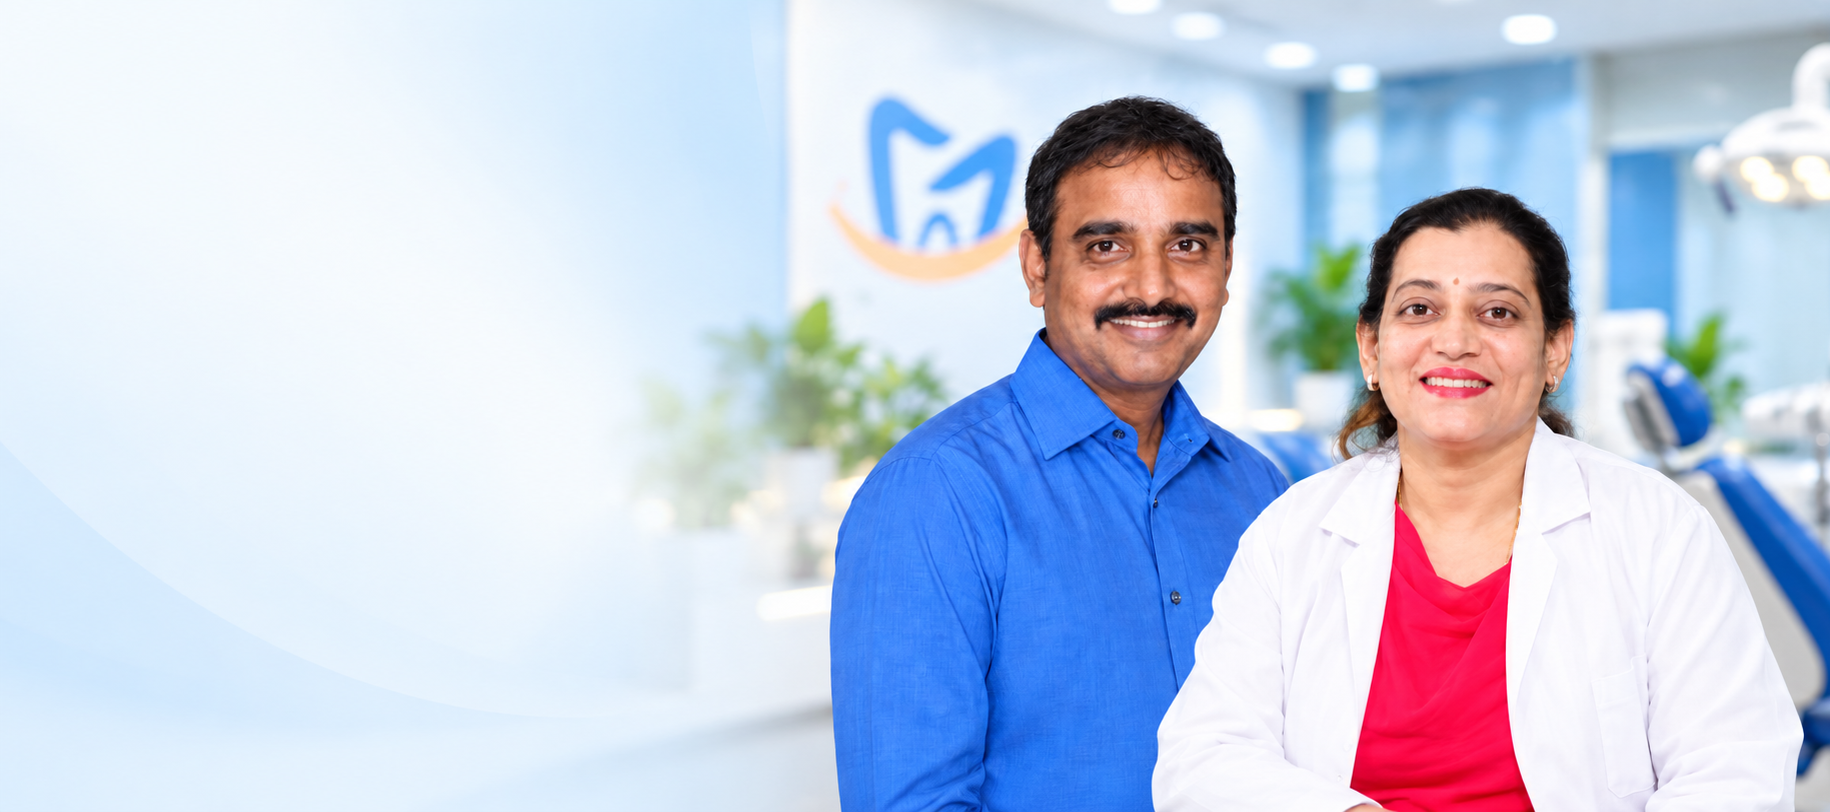
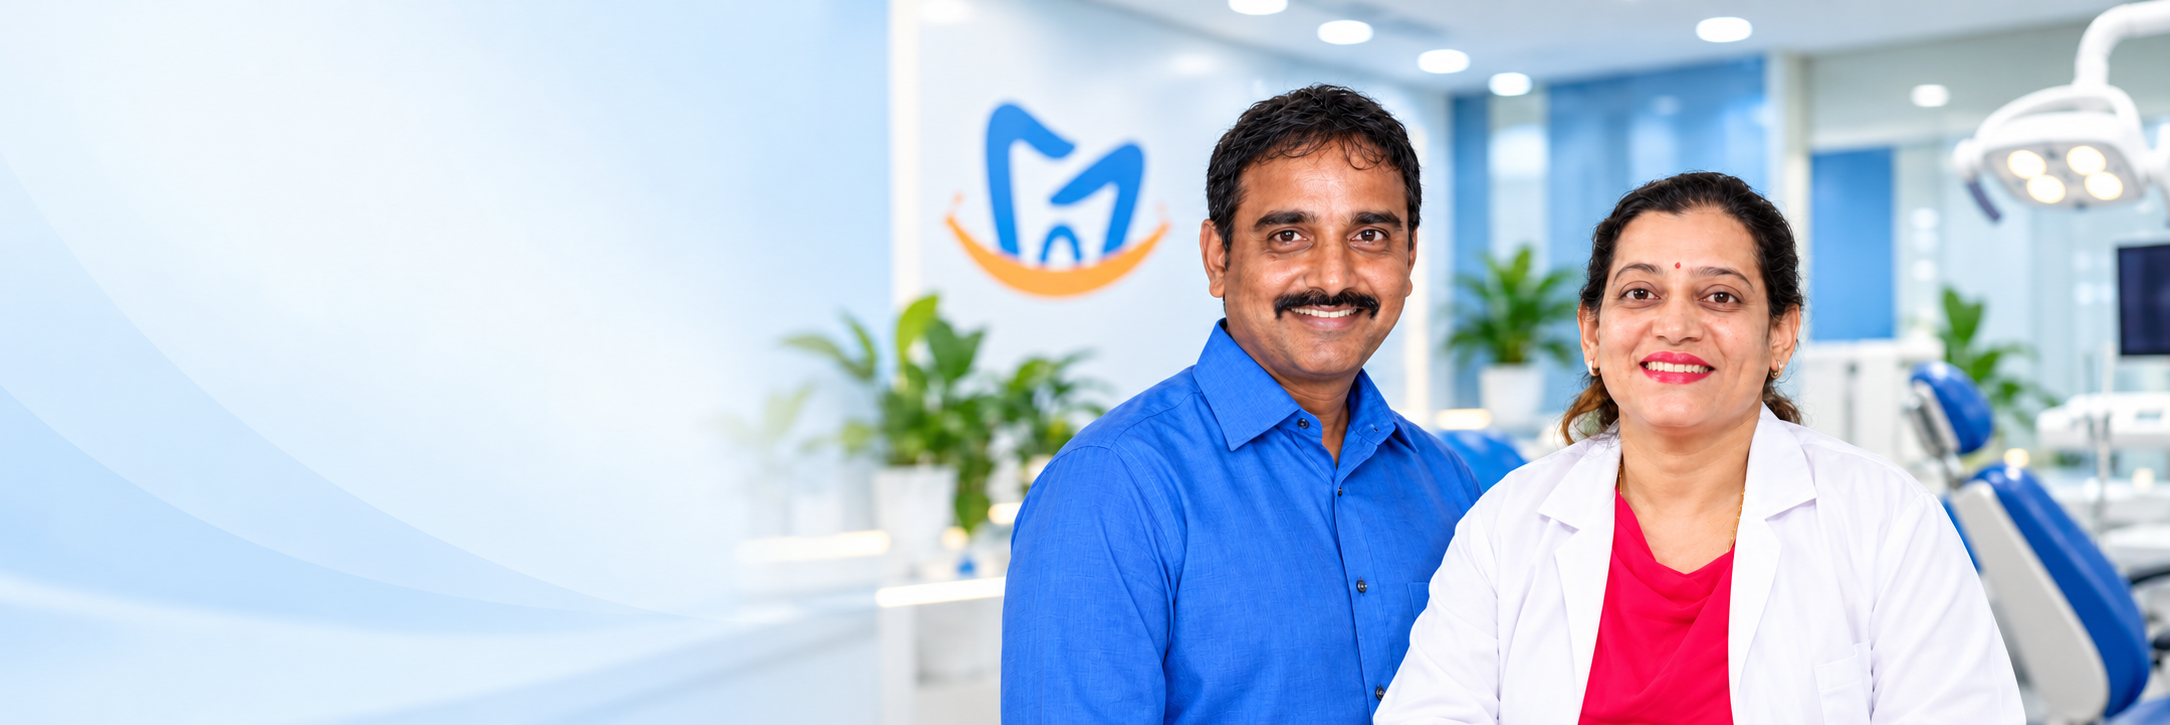
Update AboutusDocs.png hero image with cache-busting version

diff --git a/src/app/styles/custom.css b/src/app/styles/custom.css
@@ -2273,7 +2273,7 @@ body {
 .sh-about-hero__bg {
   position: absolute;
   inset: 0;
-  background: url("/img/AboutusDocs.png") right 30% / cover no-repeat;
+  background: url("/img/AboutusDocs.png?v=2") right 30% / cover no-repeat;
 }
 
 .sh-about-hero__inner {
